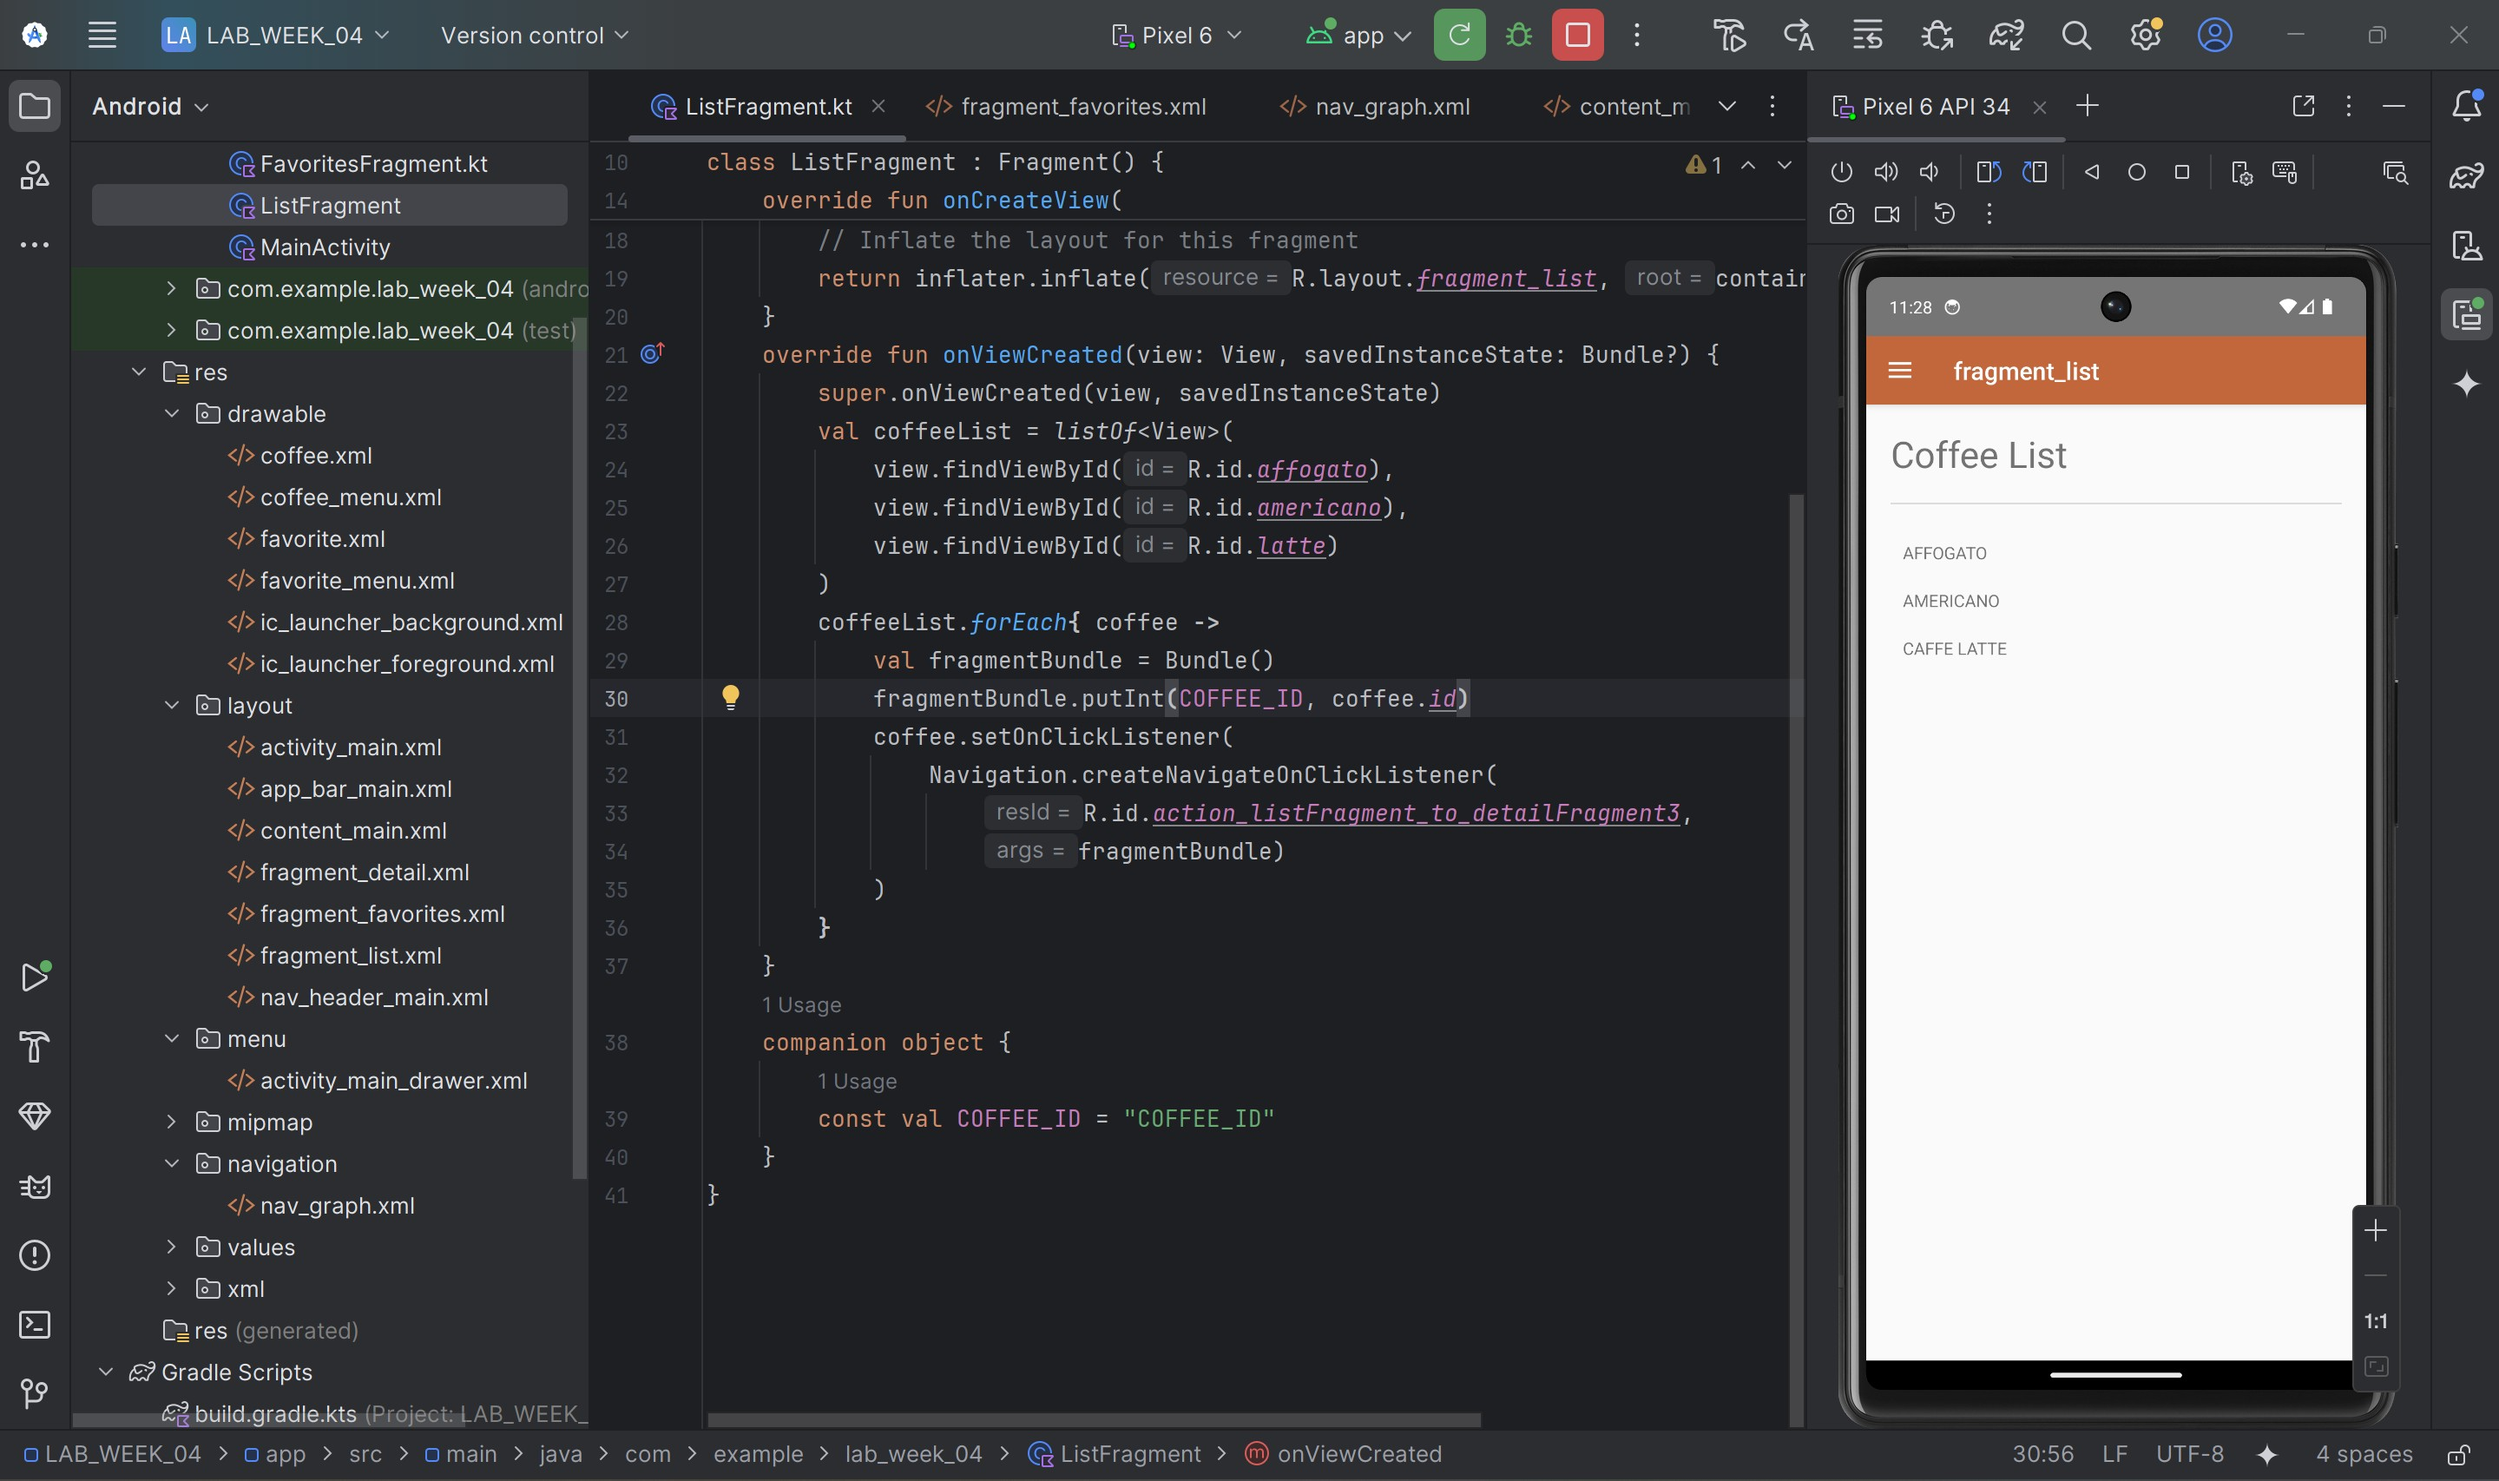
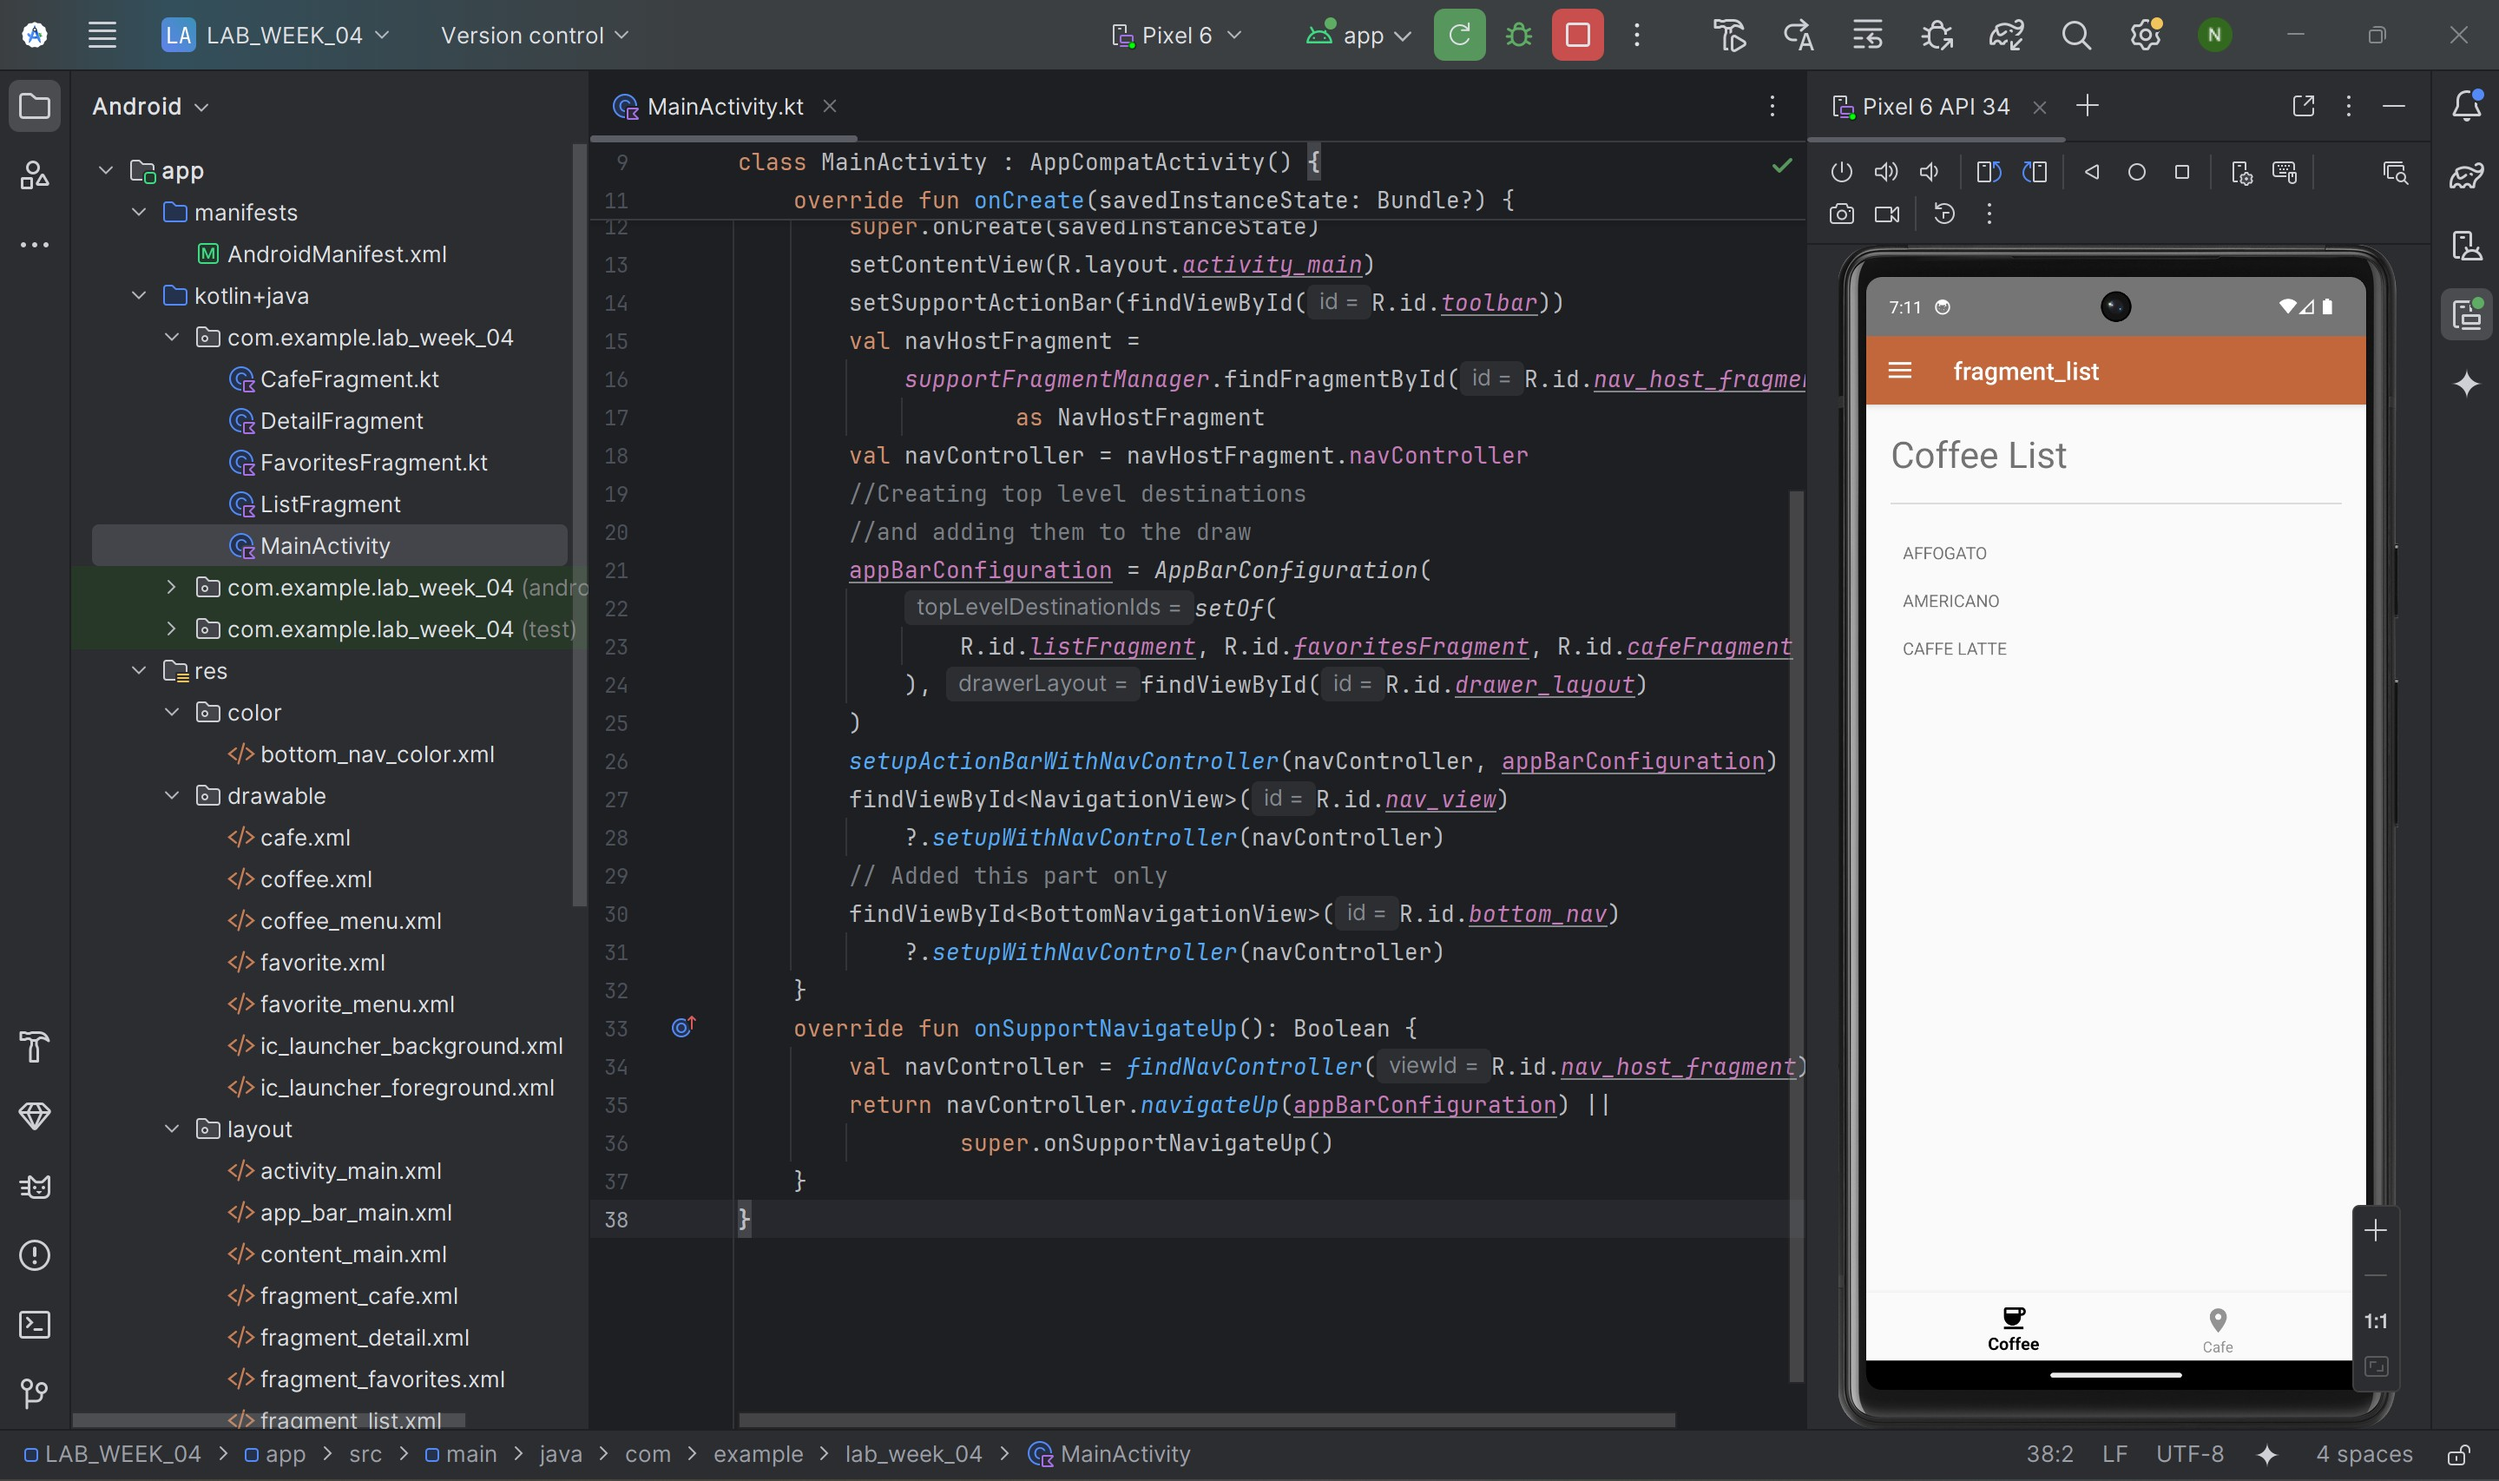
Commit No. 2 – Bottom Navigation

diff --git a/app/src/main/java/com/example/lab_week_04/CafeFragment.kt b/app/src/main/java/com/example/lab_week_04/CafeFragment.kt
@@ -1,0 +1,59 @@
+package com.example.lab_week_04
+
+import android.os.Bundle
+import androidx.fragment.app.Fragment
+import android.view.LayoutInflater
+import android.view.View
+import android.view.ViewGroup
+
+// TODO: Rename parameter arguments, choose names that match
+// the fragment initialization parameters, e.g. ARG_ITEM_NUMBER
+private const val ARG_PARAM1 = "param1"
+private const val ARG_PARAM2 = "param2"
+
+/**
+ * A simple [Fragment] subclass.
+ * Use the [CafeFragment.newInstance] factory method to
+ * create an instance of this fragment.
+ */
+class CafeFragment : Fragment() {
+    // TODO: Rename and change types of parameters
+    private var param1: String? = null
+    private var param2: String? = null
+
+    override fun onCreate(savedInstanceState: Bundle?) {
+        super.onCreate(savedInstanceState)
+        arguments?.let {
+            param1 = it.getString(ARG_PARAM1)
+            param2 = it.getString(ARG_PARAM2)
+        }
+    }
+
+    override fun onCreateView(
+        inflater: LayoutInflater, container: ViewGroup?,
+        savedInstanceState: Bundle?
+    ): View? {
+        // Inflate the layout for this fragment
+        return inflater.inflate(R.layout.fragment_cafe, container, false)
+    }
+
+    companion object {
+        /**
+         * Use this factory method to create a new instance of
+         * this fragment using the provided parameters.
+         *
+         * @param param1 Parameter 1.
+         * @param param2 Parameter 2.
+         * @return A new instance of fragment CafeFragment.
+         */
+        // TODO: Rename and change types and number of parameters
+        @JvmStatic
+        fun newInstance(param1: String, param2: String) =
+            CafeFragment().apply {
+                arguments = Bundle().apply {
+                    putString(ARG_PARAM1, param1)
+                    putString(ARG_PARAM2, param2)
+                }
+            }
+    }
+}

diff --git a/app/src/main/java/com/example/lab_week_04/MainActivity.kt b/app/src/main/java/com/example/lab_week_04/MainActivity.kt
@@ -4,6 +4,7 @@ import androidx.appcompat.app.AppCompatActivity
 import androidx.navigation.findNavController
 import androidx.navigation.fragment.NavHostFragment
 import androidx.navigation.ui.*
+import com.google.android.material.bottomnavigation.BottomNavigationView
 import com.google.android.material.navigation.NavigationView
 class MainActivity : AppCompatActivity() {
     private lateinit var appBarConfiguration: AppBarConfiguration
@@ -19,11 +20,14 @@ class MainActivity : AppCompatActivity() {
         //and adding them to the draw
         appBarConfiguration = AppBarConfiguration(
             setOf(
-                R.id.listFragment, R.id.favoritesFragment
+                R.id.listFragment, R.id.favoritesFragment, R.id.cafeFragment
             ), findViewById(R.id.drawer_layout)
         )
         setupActionBarWithNavController(navController, appBarConfiguration)
         findViewById<NavigationView>(R.id.nav_view)
+            ?.setupWithNavController(navController)
+        // Added this part only
+        findViewById<BottomNavigationView>(R.id.bottom_nav)
             ?.setupWithNavController(navController)
     }
     override fun onSupportNavigateUp(): Boolean {
